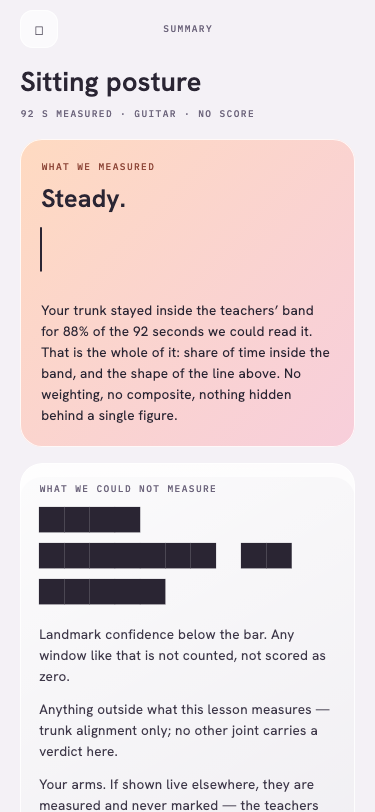
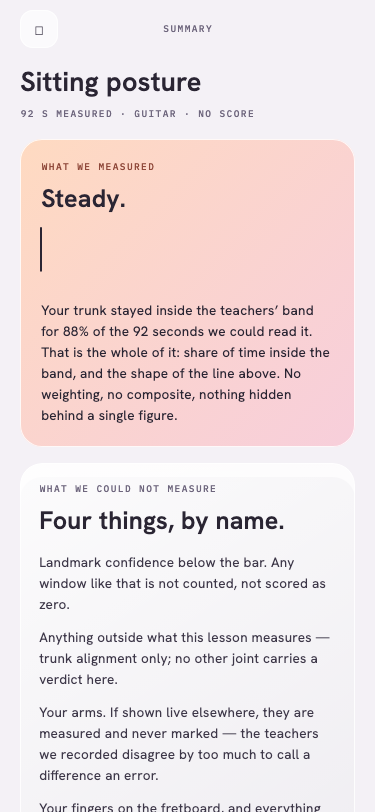
Kanıt aracım tipografide SADIK DEĞİLMİŞ — kendi kanıtımın kalibrasyonu (O-052)
Koordinatörün ① maddesi (düzeltme sonrası yeniden bak) tam da bunu buldurdu.
`05-review.png`e bakınca O-044'te eklediğim başlık — "Four things, by name."
— KARA BLOKLAR olarak çiziliyordu.

TEŞHİS (gerçek kusur mu, araç kusuru mu — ayrımı önce yaptım):
Kanıt üretecinin `MaterialApp`i TEMA KURMUYORDU. Gerçek uygulama
`textTheme: GoogleFonts.hankenGroteskTextTheme()` kuruyor, yani ham
`TextStyle` kullanan metin gerçekte Hanken alıyor; temasız koşumda ise
varsayılan test yazı tipine düşüp blok glif çiziliyordu.

Yani ekranda kusur YOKTU — **kanıt aracında vardı.** Ve bu daha kötüsü:
bütün gece "gözle doğrulandı" derken kullandığım araç, ham-`TextStyle`
öğelerinin TİPOGRAFİSİNDE uygulamadan FARKLI bir şey gösteriyordu. Düzen ve
vektör kanıtı ayakta (CustomPainter font'tan etkilenmiyor), ama o iki öğenin
tipografisi bugüne dek KANITLANMAMIŞTI. Bir kanıt aracının verdiği güven,
sadakati kadardır.

DÜZELTME:
· `ostinatoTheme()` `ostinato_theme.dart`a taşındı — `main.dart` ve kanıt
  üreteci artık AYNI nesneyi kuruyor. Elle kopyalanan bir tema ilk
  değişiklikte sessizce ayrışırdı.
· İki ham `TextStyle` kaçışı kapatıldı (`review_screen:174` — benim
  başlığım, orijinal koddan devraldığım desen; `setup_check_screen:439`).

YAPISAL — TİPOGRAFİ KAPISI (`validate_color_tokens.py`'ye eklendi):
ham `style: TextStyle(` artık YASAK, `hankenText()`/`monoText()`ten geçilir.
Renk için kapı kurmuştum (O-049), tipografi için YOKTU — aynı sınıfın eksik
[…]

Changed region(s): [[0.088, 0.6158, 0.88, 1.0]]

diff --git a/lib/app/design/ostinato_theme.dart b/lib/app/design/ostinato_theme.dart
@@ -157,6 +157,24 @@ TextStyle monoText({
       letterSpacing: letterSpacing,
     );
 
+/// Uygulamanın TEK `ThemeData`sı.
+///
+/// `main.dart`ta private bir statik olarak duruyordu ve kanıt üreteci
+/// (`tools/evidence/`) kendi `MaterialApp`ini TEMASIZ kuruyordu. Sonuç
+/// ÖLÇÜLDÜ (2026-08-07, O-052): ham `TextStyle` kullanan metin gerçek
+/// uygulamada `textTheme`den Hanken alıyor, kanıt karesinde ise varsayılan
+/// test yazı tipine düşüp BLOK GLİF olarak çiziliyordu. Yani kanıt aracı
+/// tipografide SADIK DEĞİLDİ — ve bir kanıt aracının verdiği güven,
+/// sadakati kadardır.
+///
+/// Buraya taşındı ki iki yer AYNI nesneyi kullansın; elle kopyalanan bir
+/// tema, ilk değişiklikte sessizce ayrışır.
+ThemeData ostinatoTheme() => ThemeData(
+      colorSchemeSeed: const Color(0xFF5F4CA0),
+      scaffoldBackgroundColor: OstinatoColors.shell,
+      textTheme: GoogleFonts.hankenGroteskTextTheme(),
+    );
+
 /// Bölüm başlığı — "SCREENS" / "YOUR INSTRUMENTS" tarzı mono kicker.
 Widget kicker(String text, {Color? color}) => Text(
       text.toUpperCase(),

diff --git a/lib/app/screens/review_screen.dart b/lib/app/screens/review_screen.dart
@@ -171,9 +171,11 @@ class ReviewScreenRoute extends StatelessWidget {
                     // görünen bir sayının saydığı şeye bağlı OLMAMASI.
                     Text('${_countWord(gaps.length)} things, by name.',
                         key: const Key('review-gap-headline'),
-                        style: const TextStyle(
-                            fontSize: 25,
-                            fontWeight: FontWeight.w600,
+                        // hankenText() — ham `TextStyle` tipografi
+                        // yardımcısını ATLIYORDU (O-052).
+                        style: hankenText(
+                            size: 25,
+                            weight: FontWeight.w600,
                             color: OstinatoColors.ink)),
                     const SizedBox(height: 14),
                     for (final String g in gaps)

diff --git a/lib/main.dart b/lib/main.dart
@@ -1,5 +1,4 @@
 import 'package:flutter/material.dart';
-import 'package:google_fonts/google_fonts.dart';
 
 import 'app/content.dart';
 import 'app/cue_text.dart';
@@ -35,11 +34,9 @@ class _OstinatoAppState extends State<OstinatoApp> {
         await widget.store.isComplete(),
       ))();
 
-  static final ThemeData _theme = ThemeData(
-    colorSchemeSeed: const Color(0xFF5F4CA0),
-    scaffoldBackgroundColor: OstinatoColors.shell,
-    textTheme: GoogleFonts.hankenGroteskTextTheme(),
-  );
+  // Tema `ostinato_theme.dart`ta — kanıt üreteci de AYNI nesneyi kuruyor
+  // (O-052: temasız kanıt koşumu ham `TextStyle`ları blok glif çiziyordu).
+  static final ThemeData _theme = ostinatoTheme();
 
   @override
   Widget build(BuildContext context) {

diff --git a/lib/app/screens/setup_check_screen.dart b/lib/app/screens/setup_check_screen.dart
@@ -432,11 +432,12 @@ class _PassedStage extends StatelessWidget {
                 // DÜZELTME (koordinatör, 2026-08-07, M-F-186): "yet"
                 // çıkarıldı — gerekçe zaten `_RoomGapNotice`de var, burası
                 // yalnız kısa bir sonuç notu.
-                const Text(
+                Text(
                   'Your frame and the light. Room noise is not part of '
                   'this check, so nothing about your sound was '
                   'measured or saved.',
-                  style: TextStyle(height: 1.5),
+                  // O-052: ham `TextStyle` yerine tipografi yardımcısı.
+                  style: hankenText(size: 13.5, height: 1.5),
                 ),
               ],
             ),

diff --git a/tools/evidence/evidence_capture_test.dart b/tools/evidence/evidence_capture_test.dart
@@ -115,6 +115,10 @@ void main() {
         repo: repo,
         cueText: cueText,
         child: MaterialApp(
+          // GERÇEK tema (O-052) — temasız kurulum ham `TextStyle`ları
+          // varsayılan test yazı tipine düşürüp BLOK GLİF çiziyordu, yani
+          // kanıt karesi uygulamadan FARKLI bir şey gösteriyordu.
+          theme: ostinatoTheme(),
           home: RepaintBoundary(key: captureKey, child: child),
         ),
       );

diff --git a/tools/validate_color_tokens.py b/tools/validate_color_tokens.py
@@ -82,6 +82,14 @@ def strip_comments(src: str) -> str:
     return "".join(out)
 
 
+#: Ham `TextStyle(...)` — tipografi yardımcısını (`hankenText`/`monoText`)
+#: ATLAYAN kaçış yolu. Ölçüldü (O-052): iki yerde vardı ve ikisi de gerçek
+#: uygulamada `textTheme`den font alıyordu, kanıt karesinde ise varsayılana
+#: düşüyordu — yani ekranda GÖRÜNEN ile KANITLANAN ayrışıyordu. Renk için
+#: kapı kurulmuştu, tipografi için yoktu; aynı sınıf, eksik yarısı.
+RAW_TEXTSTYLE = re.compile(r"style:\s*(?:const\s+)?TextStyle\s*\(")
+
+
 def main() -> int:
     violations = []
     checked = 0
@@ -105,13 +113,26 @@ def main() -> int:
                     f"(O-049: tam olarak bu oldu). `OstinatoColors.*` kullan."
                 )
 
+    # ── Tipografi: ham TextStyle yasak (yardımcıdan geç).
+    for path in sorted(LIB.rglob("*.dart")):
+        src = strip_comments(path.read_text(encoding="utf-8"))
+        for m in RAW_TEXTSTYLE.finditer(src):
+            line = src.count("\n", 0, m.start()) + 1
+            violations.append(
+                f"{path}:{line}: ham `TextStyle(` — `hankenText()`/`monoText()` "
+                f"yardımcısını atlıyor. Yardımcıdan geçmeyen metin, temanın "
+                f"`textTheme`ine düşer: gerçek uygulamada Hanken, temasız bir "
+                f"koşumda VARSAYILAN font — yani ekranda görünen ile "
+                f"kanıtlanan ayrışır (O-052)."
+            )
+
     if violations:
-        print(f"⛔ {len(violations)} TOKEN-ATLAYAN METİN RENGİ:")
+        print(f"⛔ {len(violations)} TOKEN/TİPOGRAFİ İHLALİ:")
         for v in violations:
             print(f"   - {v}")
         return 1
-    print(f"✅ renk token kapısı TEMİZ — {checked} metin-rengi çağrısı tarandı, "
-          f"hepsi token'dan ya da çalgı kimliğinden geliyor")
+    print(f"✅ renk+tipografi token kapısı TEMİZ — {checked} metin-rengi "
+          f"çağrısı token'dan geliyor, ham `TextStyle` yok")
     return 0
 
 
